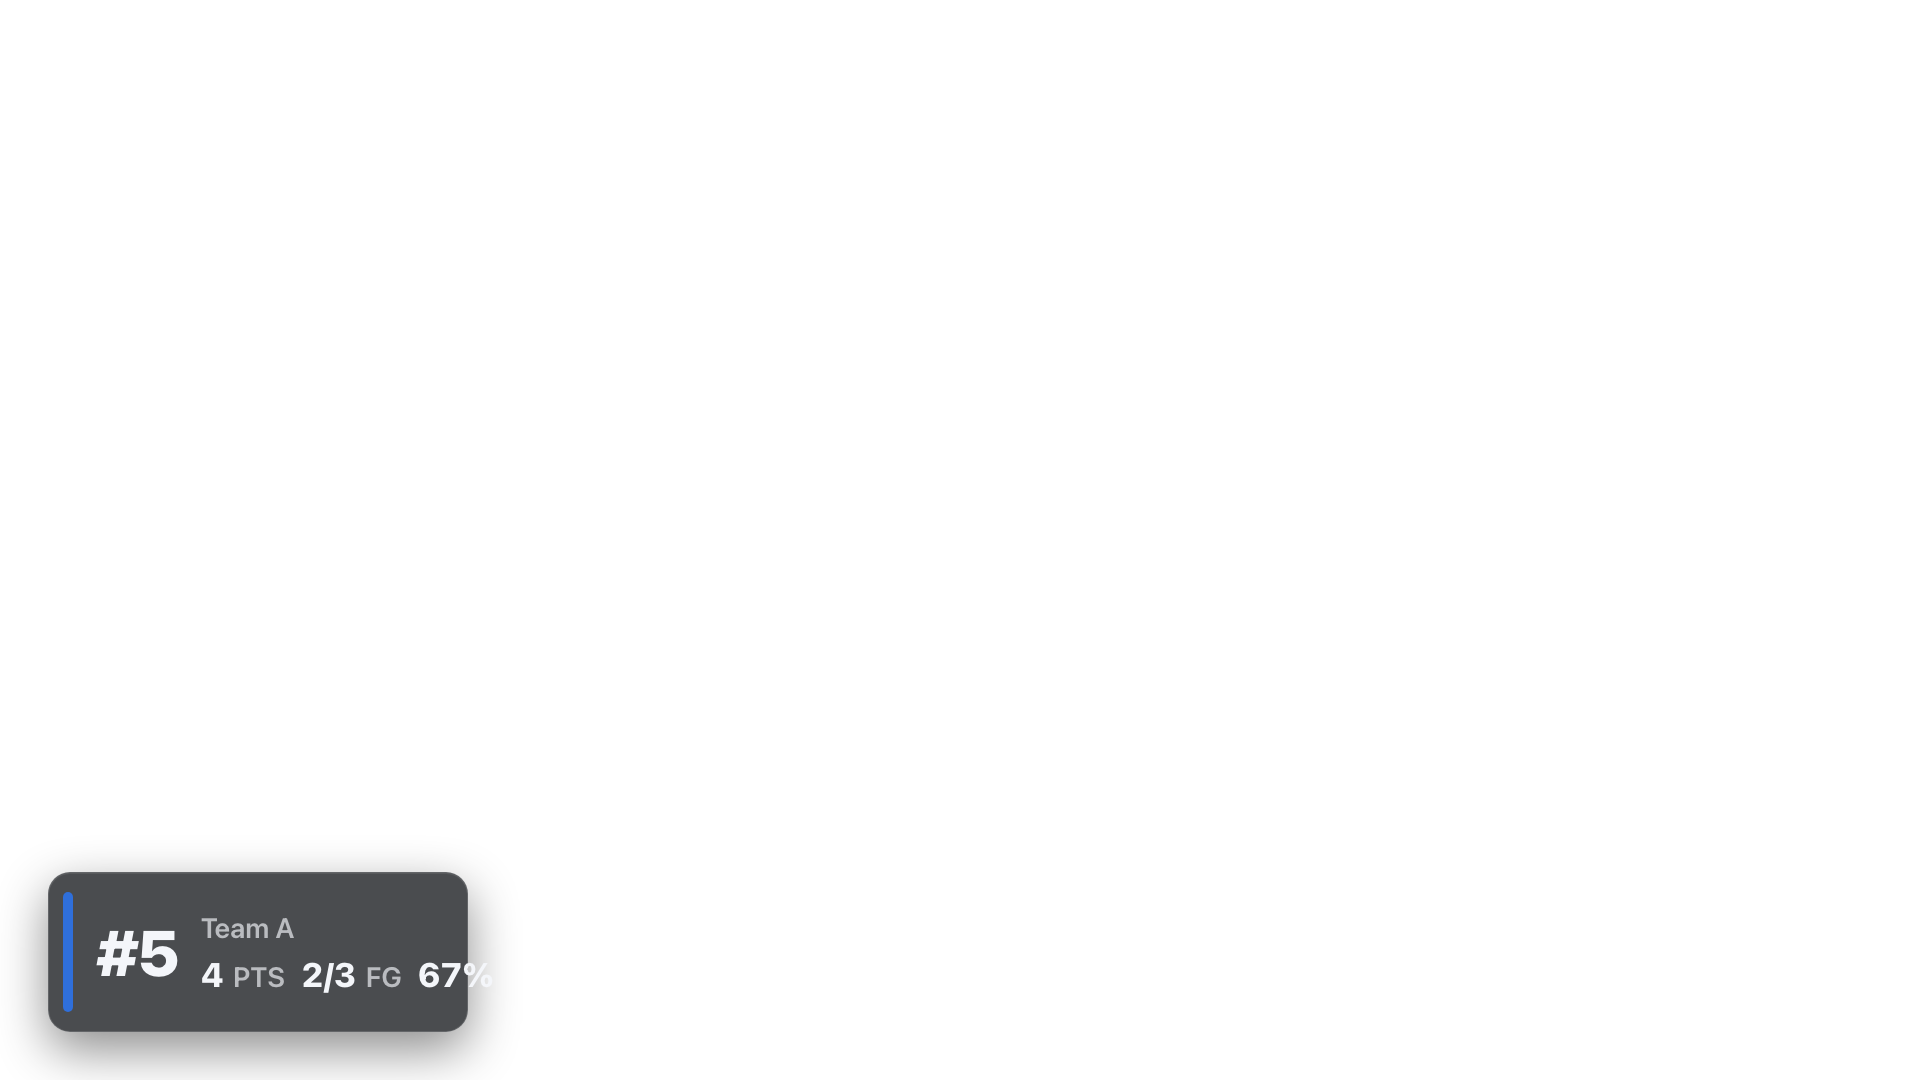
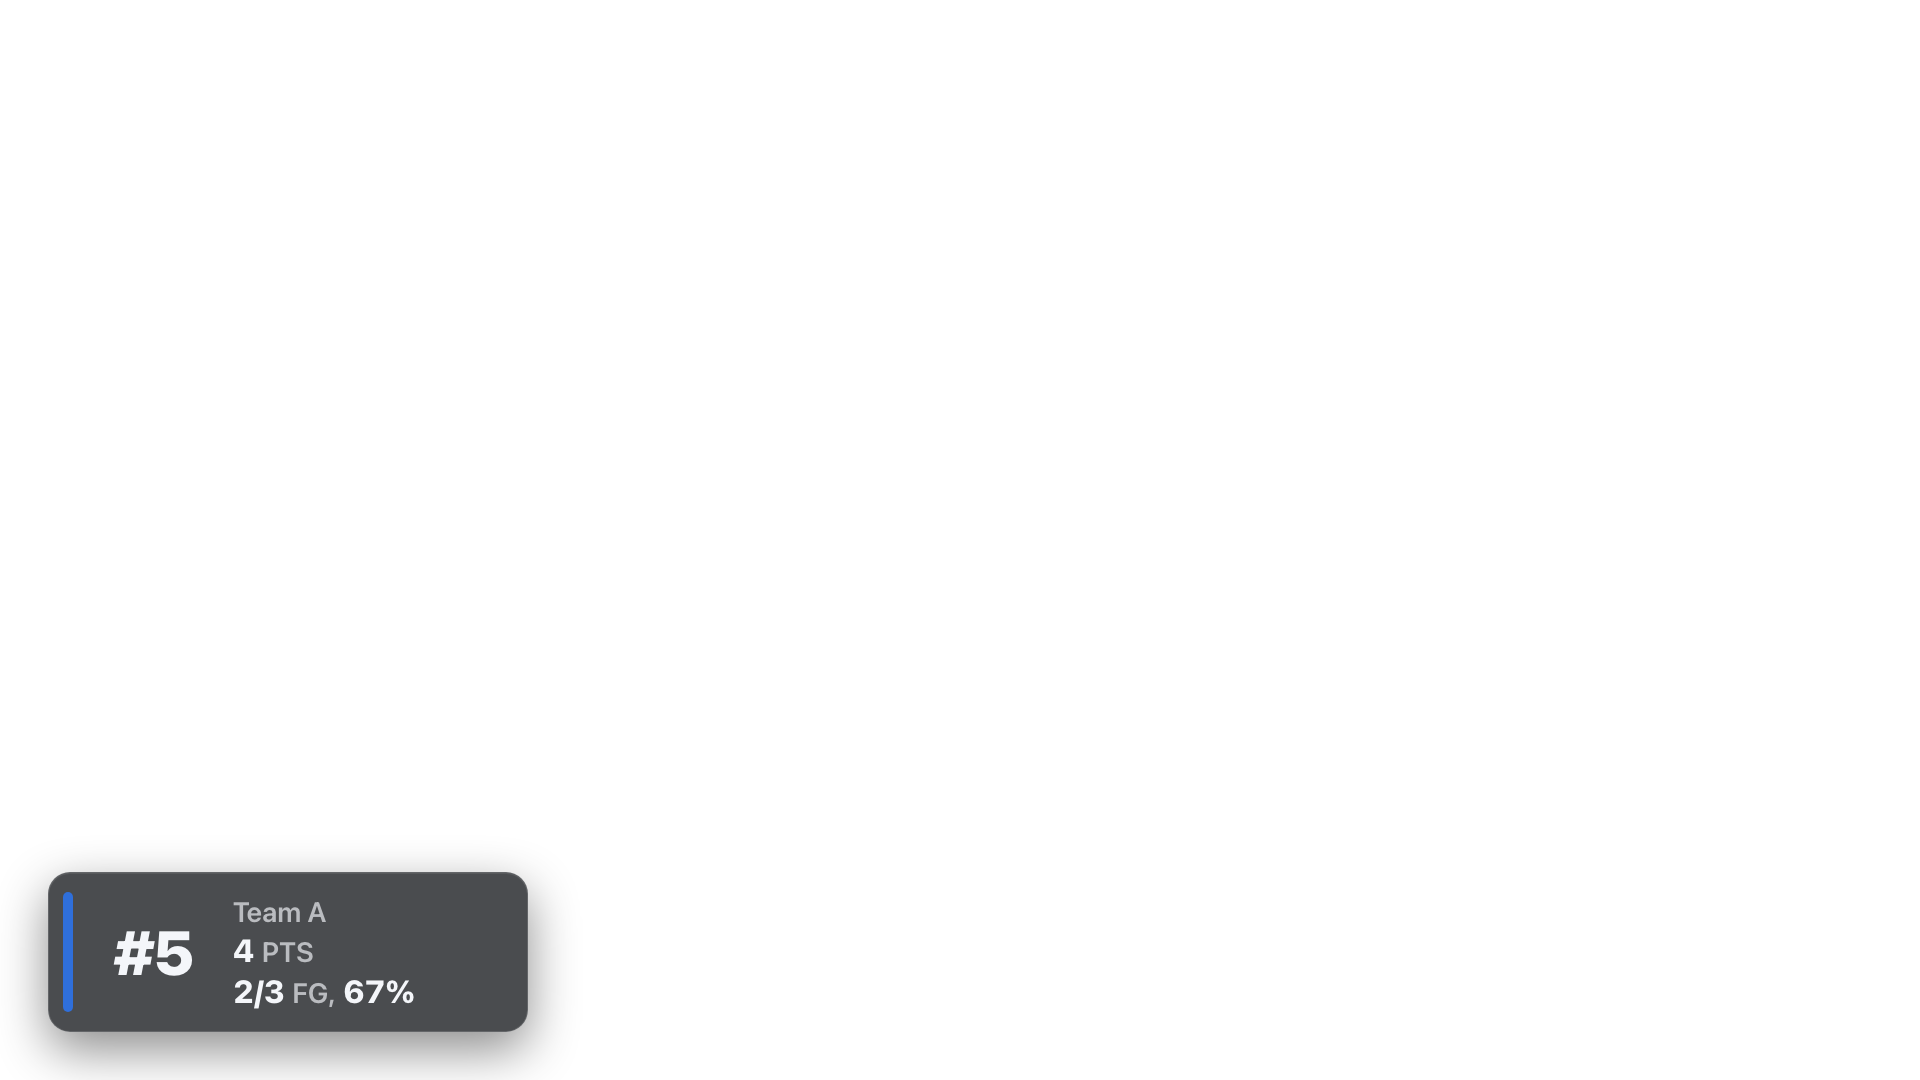
broadcast: player card 480x160 with two stat lines so #55 and 10/12 FG, 100% fit
Claude-Session: https://claude.ai/code/session_014wgHQacgR8inFjTJfC4Jz9

Changed region(s): [[0.0312, 0.7944, 0.3125, 1.0]]

diff --git a/broadcast/widgets/player_card.html b/broadcast/widgets/player_card.html
@@ -18,18 +18,18 @@ body{width:1920px;height:1080px;overflow:hidden;position:relative;font-family:-a
 .stat .v{font-size:44px;font-weight:800;letter-spacing:-.02em;line-height:1}
 .stat .l{font-size:28px;color:var(--muted);font-weight:600}
 
-#card{left:48px;top:872px;width:420px;height:160px;display:grid;grid-template-columns:10px 104px 1fr;gap:12px;align-items:center;padding:0 14px 0 14px}
-#card .number{font-size:64px;font-weight:900;letter-spacing:-.04em;line-height:1;text-align:center}
-#card .body{display:flex;flex-direction:column;gap:10px;min-width:0}
+#card{left:48px;top:872px;width:480px;height:160px;display:grid;grid-template-columns:10px 132px 1fr;gap:14px;align-items:center;padding:0 14px 0 14px}
+#card .number{font-size:62px;font-weight:900;letter-spacing:-.04em;line-height:1;text-align:center}
+#card .body{display:flex;flex-direction:column;gap:4px;min-width:0}
 #card .team{font-size:28px;color:var(--muted);font-weight:600;white-space:nowrap;overflow:hidden;text-overflow:ellipsis}
-#card .stats{display:flex;gap:10px;align-items:baseline;white-space:nowrap}
-#card .stats b{font-size:34px;font-weight:800;letter-spacing:-.02em}
-#card .stats span{font-size:28px;color:var(--muted);font-weight:600;margin-right:6px}
+#card .stats{display:flex;gap:8px;align-items:baseline;white-space:nowrap;line-height:1.15}
+#card .stats b{font-size:32px;font-weight:800;letter-spacing:-.02em}
+#card .stats span{font-size:28px;color:var(--muted);font-weight:600}
 </style></head>
 <body data-widget="player_card">
 
 <div id="card" class="w glass"><div class="acc" id="acc" style="height:120px"></div><div class="number" id="no"></div>
-<div class="body"><div class="team" id="team"></div><div class="stats"><b id="pts"></b><span>PTS</span><b id="fg"></b><span>FG</span><b id="pct"></b></div></div></div>
+<div class="body"><div class="team" id="team"></div><div class="stats"><b id="pts"></b><span>PTS</span></div><div class="stats"><b id="fg"></b><span>FG,</span><b id="pct"></b></div></div></div>
 
 <script id="bbb-state" type="application/json">{"brand": "Big Ball Baller", "example": true, "title": "Landesliga Berlin", "clip_or_source": "game10.mp4", "t": 312.4, "period": 1, "clock": "05:12", "teams": [{"id": 0, "name": "Team A", "color": "#2f6fdb", "score": 10, "fga": 12, "fgm": 5, "fg_pct": 0.42, "possessions": 21}, {"id": 1, "name": "Team B", "color": "#c8102e", "score": 10, "fga": 11, "fgm": 5, "fg_pct": 0.45, "possessions": 19}], "players": [{"key": "A5", "number": 5, "team": 0, "pts": 4, "fga": 3, "fgm": 2, "fg_pct": 0.67, "possession_s": 22.9, "distance_m": 410}, {"key": "A44", "number": 44, "team": 0, "pts": 2, "fga": 2, "fgm": 1, "fg_pct": 0.5, "possession_s": 11.4, "distance_m": 388}, {"key": "A24", "number": 24, "team": 0, "pts": 2, "fga": 3, "fgm": 1, "fg_pct": 0.33, "possession_s": 10.1, "distance_m": 402}, {"key": "A55", "number": 55, "team": 0, "pts": 2, "fga": 2, "fgm": 1, "fg_pct": 0.5, "possession_s": 20.2, "distance_m": 365}, {"key": "A23", "number": 23, "team": 0, "pts": 0, "fga": 2, "fgm": 0, "fg_pct": 0.0, "possession_s": 6.4, "distance_m": 290}, {"key": "B9", "number": 9, "team": 1, "pts": 4, "fga": 3, "fgm": 2, "fg_pct": 0.67, "possession_s": 7.7, "distance_m": 351}, {"key": "B12", "number": 12, "team": 1, "pts": 2, "fga": 2, "fgm": 1, "fg_pct": 0.5, "possession_s": 12.3, "distance_m": 377}, {"key": "B13", "number": 13, "team": 1, "pts": 2, "fga": 2, "fgm": 1, "fg_pct": 0.5, "possession_s": 9.0, "distance_m": 340}, {"key": "B55", "number": 55, "team": 1, "pts": 2, "fga": 3, "fgm": 1, "fg_pct": 0.33, "possession_s": 5.2, "distance_m": 298}, {"key": "B1", "number": 1, "team": 1, "pts": 0, "fga": 1, "fgm": 0, "fg_pct": 0.0, "possession_s": 4.4, "distance_m": 255}], "last_event": {"t": 310.2, "type": "made", "team": 0, "player_key": "A5", "points": 2}, "shots": [{"team": 0, "made": true, "court_m": [3.1, 7.4]}, {"team": 0, "made": false, "court_m": [6.8, 3.2]}, {"team": 0, "made": true, "court_m": [2.2, 9.1]}, {"team": 0, "made": false, "court_m": [7.6, 11.0]}, {"team": 0, "made": true, "court_m": [4.9, 5.0]}, {"team": 1, "made": true, "court_m": [25.0, 7.9]}, {"team": 1, "made": false, "court_m": [21.4, 4.1]}, {"team": 1, "made": true, "court_m": [26.1, 6.2]}, {"team": 1, "made": false, "court_m": [20.6, 10.7]}, {"team": 1, "made": true, "court_m": [23.3, 8.8]}], "heat_image": null, "pan_deg": 97, "camera": "ok"}</script>
 <script>

diff --git a/broadcast/render_widgets.py b/broadcast/render_widgets.py
@@ -136,7 +136,8 @@ def main(argv=None) -> int:
             except (RuntimeError, OSError) as exc:
                 print(f"{wid}: chrome failed: {exc}", file=sys.stderr)
                 continue
-            print(f"{wid}: {out_png.relative_to(ROOT)} ({alpha_report(out_png)})")
+            shown = out_png.relative_to(ROOT) if out_png.is_relative_to(ROOT) else out_png
+            print(f"{wid}: {shown} ({alpha_report(out_png)})")
     return 0
 
 

diff --git a/docs/ORCHESTRATION.md b/docs/ORCHESTRATION.md
@@ -175,7 +175,7 @@ menu json `broadcast/config.json`), never guessed.
 |---|---|---|
 | `score_bug` | top centre, 520x88 | always |
 | `made_flash` | over the score bug | 1.5 s after a made basket (auto or manual) |
-| `player_card` | lower left, 420x160: number, name/key, PTS, FGM/FGA, FG% | 3 s after a made basket by that player; and the top scorer of each team every 3 min |
+| `player_card` | lower left, 480x160 (widened 14:58 so #55 and 10/12 FG, 100% fit): number, name/key, PTS, FGM/FGA, FG% | 3 s after a made basket by that player; and the top scorer of each team every 3 min |
 | `team_overview` | centre, 900x420: both teams score, FG%, possessions, top scorer | every 5 min for 6 s, and on `--timeout` hotkey `t` |
 | `lower_third` | bottom, 1920x120: "Big Ball Baller" brand + game title | first 10 s and on demand hotkey `b` |
 | `end_summary` | full frame 1920x1080: efficiency table (pts, FGA, FGM, FG%, possession share) per player and team | on hotkey `e` or end of file |
